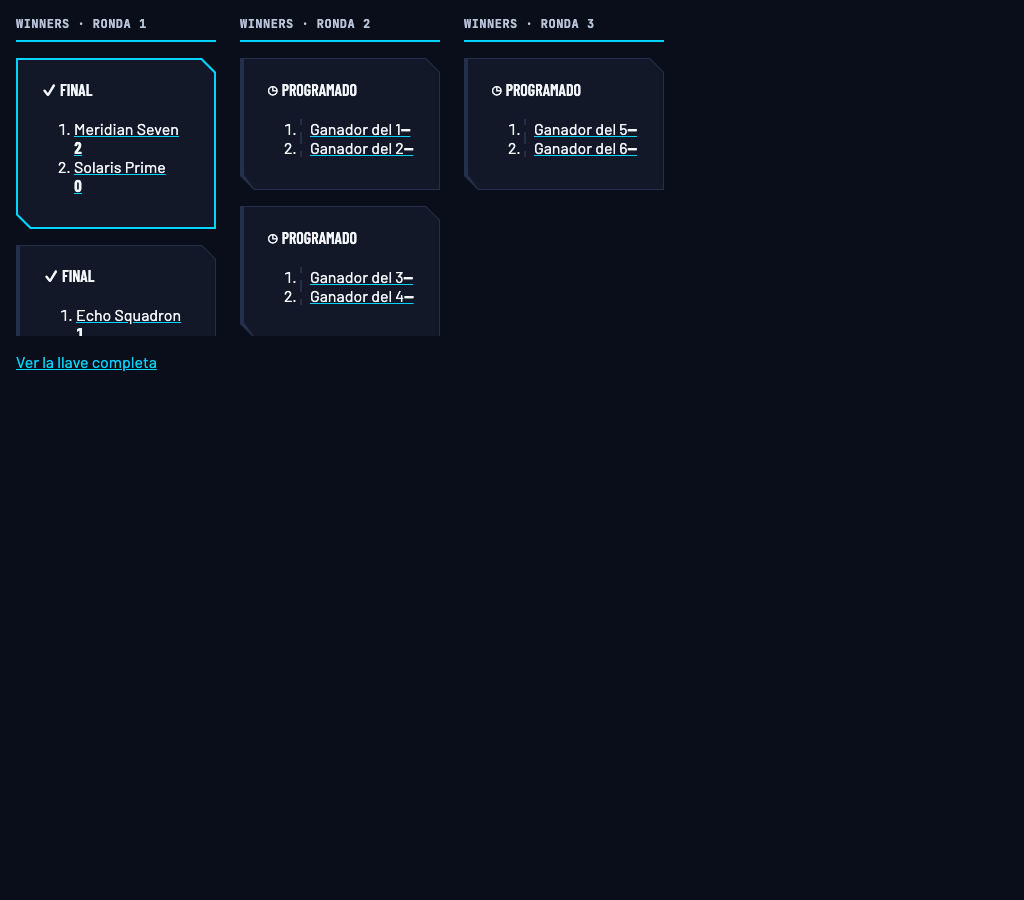
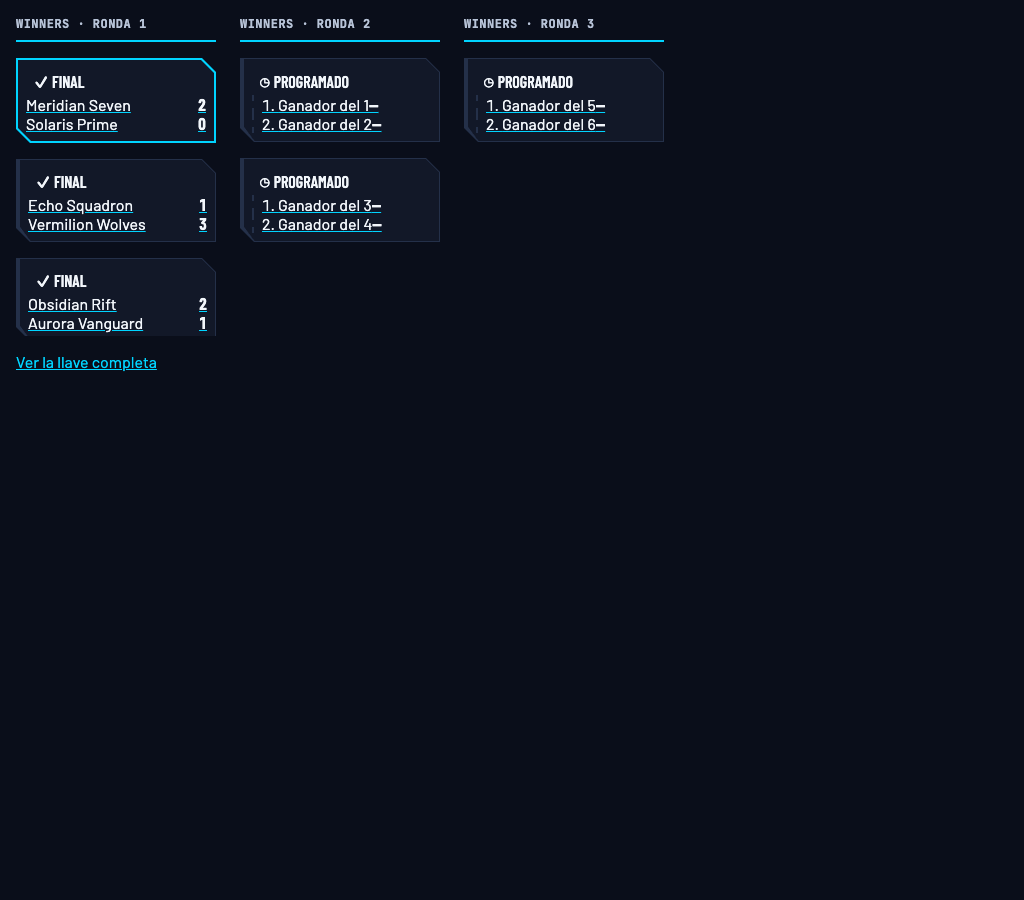
fix(public-web): stop the score wrapping onto its own line in bracket cards
Two compounding causes, neither of them the card's own padding:
- .cl-bracket-stage__node's cards inherited .cl-card's full 16px
  padding (--cl-space-4) plus a 4px accent border, leaving little
  room in the round column's 200px min-width. Overridden down to
  --cl-space-2 (8px), matching the control BracketCanvas's own
  padding override for the same node-in-a-narrow-column reason.
- The <ol> in MatchNode.astro had no styling at all, so it carried
  the browser's default ~40px marker indent — a bigger bite out of
  the column than the card's own padding. list-style-position: inside
  folds the marker back into the content box, and .cl-slot now has a
  flex row (name left, score right) instead of relying on plain
  inline wrap.

Changed region(s): [[0.0, 0.0622, 0.4062, 0.3733], [0.4375, 0.0622, 0.625, 0.1867]]

diff --git a/packages/design-tokens/src/generate/css.ts b/packages/design-tokens/src/generate/css.ts
@@ -1484,6 +1484,20 @@ function compositions(): string {
     '',
     '.cl-bracket-stage__node { min-width: 0; }',
     '',
+    // The default .cl-card padding (--cl-space-4, 16px) plus its 4px accent
+    // border eats over a third of the round column's 200px min-width — the
+    // same reason the control BracketCanvas overrides its own node padding
+    // down to --cl-space-2 (8px). Matched here for the same reason.
+    '.cl-bracket-stage__node .cl-card { padding: var(--cl-space-2); }',
+    '',
+    // Bare .cl-slot had no rules of its own, so the ordered list's browser
+    // default 40px marker indent — far more than the card padding itself —
+    // was left to squeeze slot rows down to almost nothing. list-style-position:
+    // inside folds the marker back into the content box, and the flex row
+    // keeps the entrant name and score on one line instead of wrapping.
+    '.cl-bracket-stage__node ol { margin: 0; padding: 0; list-style-position: inside; }',
+    '.cl-slot { display: flex; justify-content: space-between; gap: var(--cl-space-2); }',
+    '',
     // Per-slot, not per-match: a card with one confirmed entrant and one
     // still-unresolved "winner of" slot marks only the slot that's waiting,
     // matching the control BracketCanvas's own pendingSlotStyle treatment.
